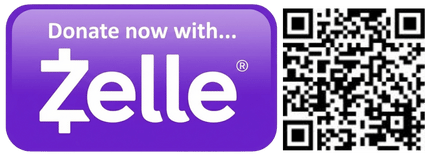
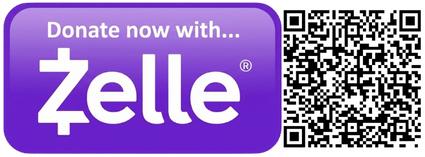
new qr for zelle

diff --git a/index.html b/index.html
@@ -793,21 +793,23 @@
                 <div class="container">
                         <div class="col-lg-12 col-12 text-center mb-4">
                             <h2>Donate Now</h2>
-                        </div>                    
+                        </div>
+                        <div class="col-lg-12 col-12 ms-auto">
+                            <h5 class="mb-10 text-center">
+                                Cloud Heroes Africa is a registered U.S. 501(c)(3) nonprofit organization dedicated to empowering African youth with cloud computing skills, mentorship, and access to technology.<br/><br/>Scan the QR code below to donate with PayPal or Zelle to support our mission.<br/><br/>
+                            </h5>                       
+                        </div>                                            
                         <div class="row justify-content-center align-items-center">
-
-                            <div class="col-lg-5 col-12 ms-auto">
+                            <div class="col-lg-6 col-12 text-center ms-auto">
                                 <form action=https://www.paypal.com/donate method="post" target="_top">
                                     <input type="hidden" name="hosted_button_id" value="7PPDC2YZSC9C2" />
                                     <input type="image" src="images/donate/paypal.png" border="0" name="submit" title="PayPal - The safer, easier way to pay online!" alt="Donate with PayPal button" />
                                     <img alt="" border="0" src=https://www.paypal.com/en_US/i/scr/pixel.gif width="1" height="1" />
                                 </form>
                             </div>
-
-                            <div class="col-lg-5 col-12 ms-auto">
-                                <img src="images/donate/zelle.png"
+                            <div class="col-lg-6 col-12 text-center ms-auto">
+                                <img src="images/donate/zelle.png" class="img-fluid" alt="Zelle Donate">
                             </div>
-
                         </div>
                 </div>
             </section>
